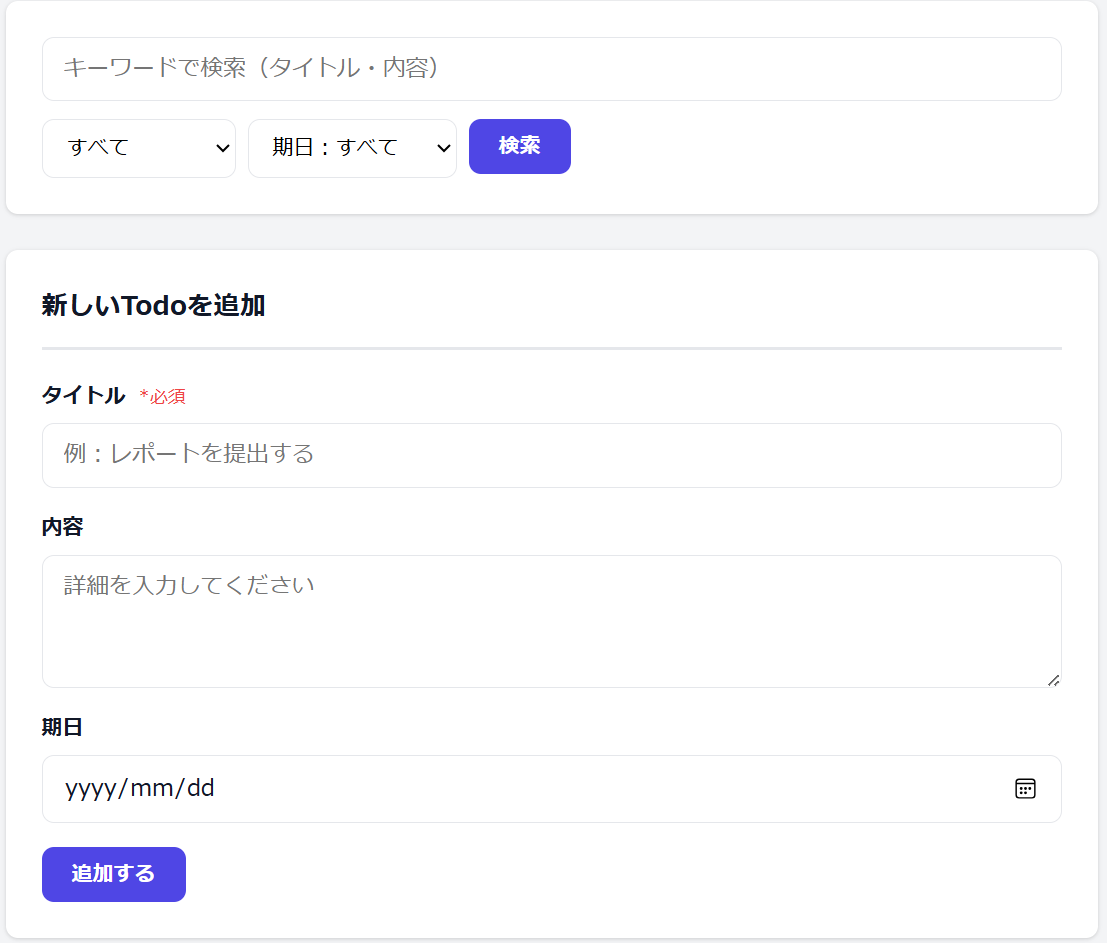
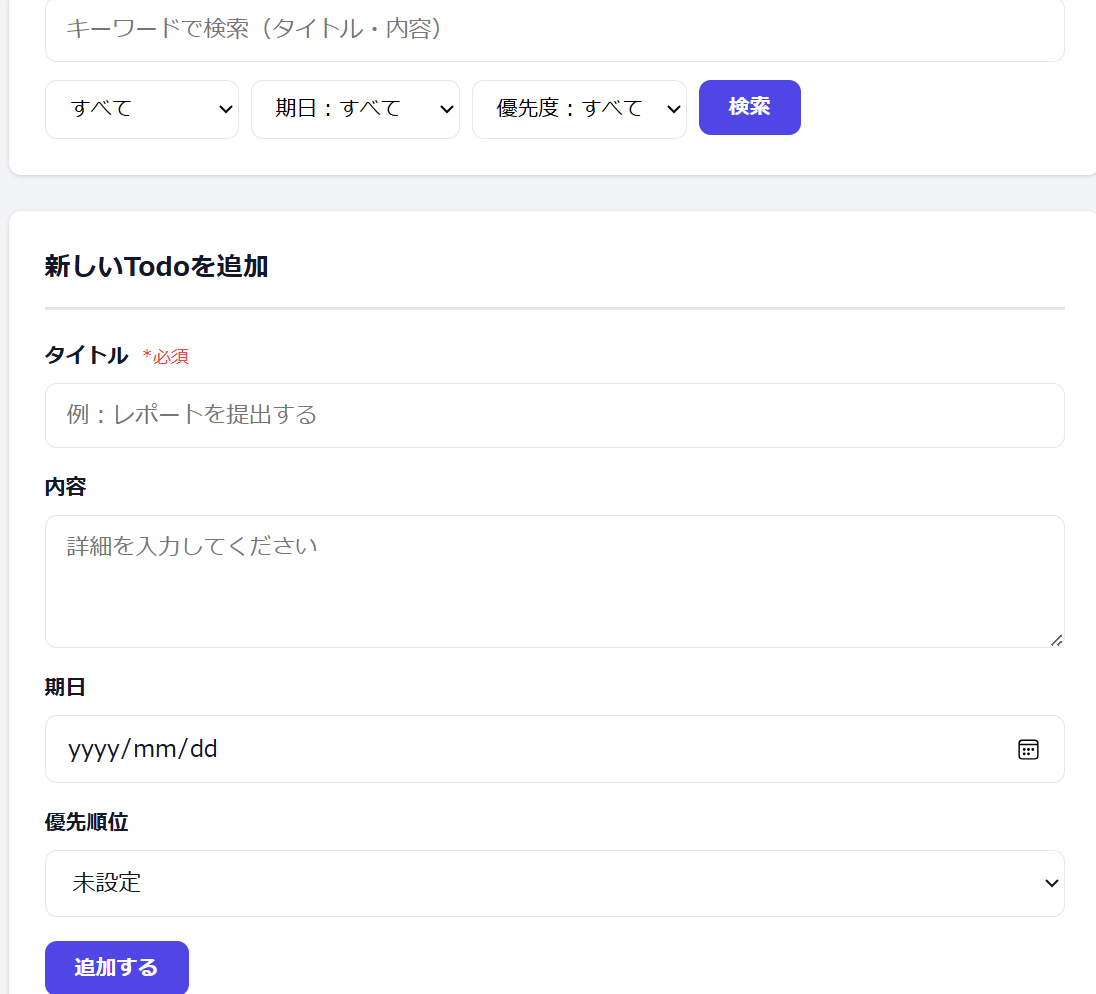
docs: スクリーンショットを更新・スプレッドシート画面を追加

diff --git a/README.md b/README.md
@@ -18,11 +18,14 @@
 
 <br>
 
-### Todo 一覧画面
+### Todo 一覧画面（優先順位・完了チェック付き）
 ![一覧画面](docs/screenshot_main.png)
 
-### 検索・フィルター画面
+### 検索・フィルター・登録フォーム
 ![検索画面](docs/screenshot_filter.png)
+
+### Google スプレッドシート（データ保存先）
+![スプレッドシート](docs/screenshot_spreadsheet.png)
 
 ### LINE 通知
 ![LINE通知](docs/screenshot_line.png)
